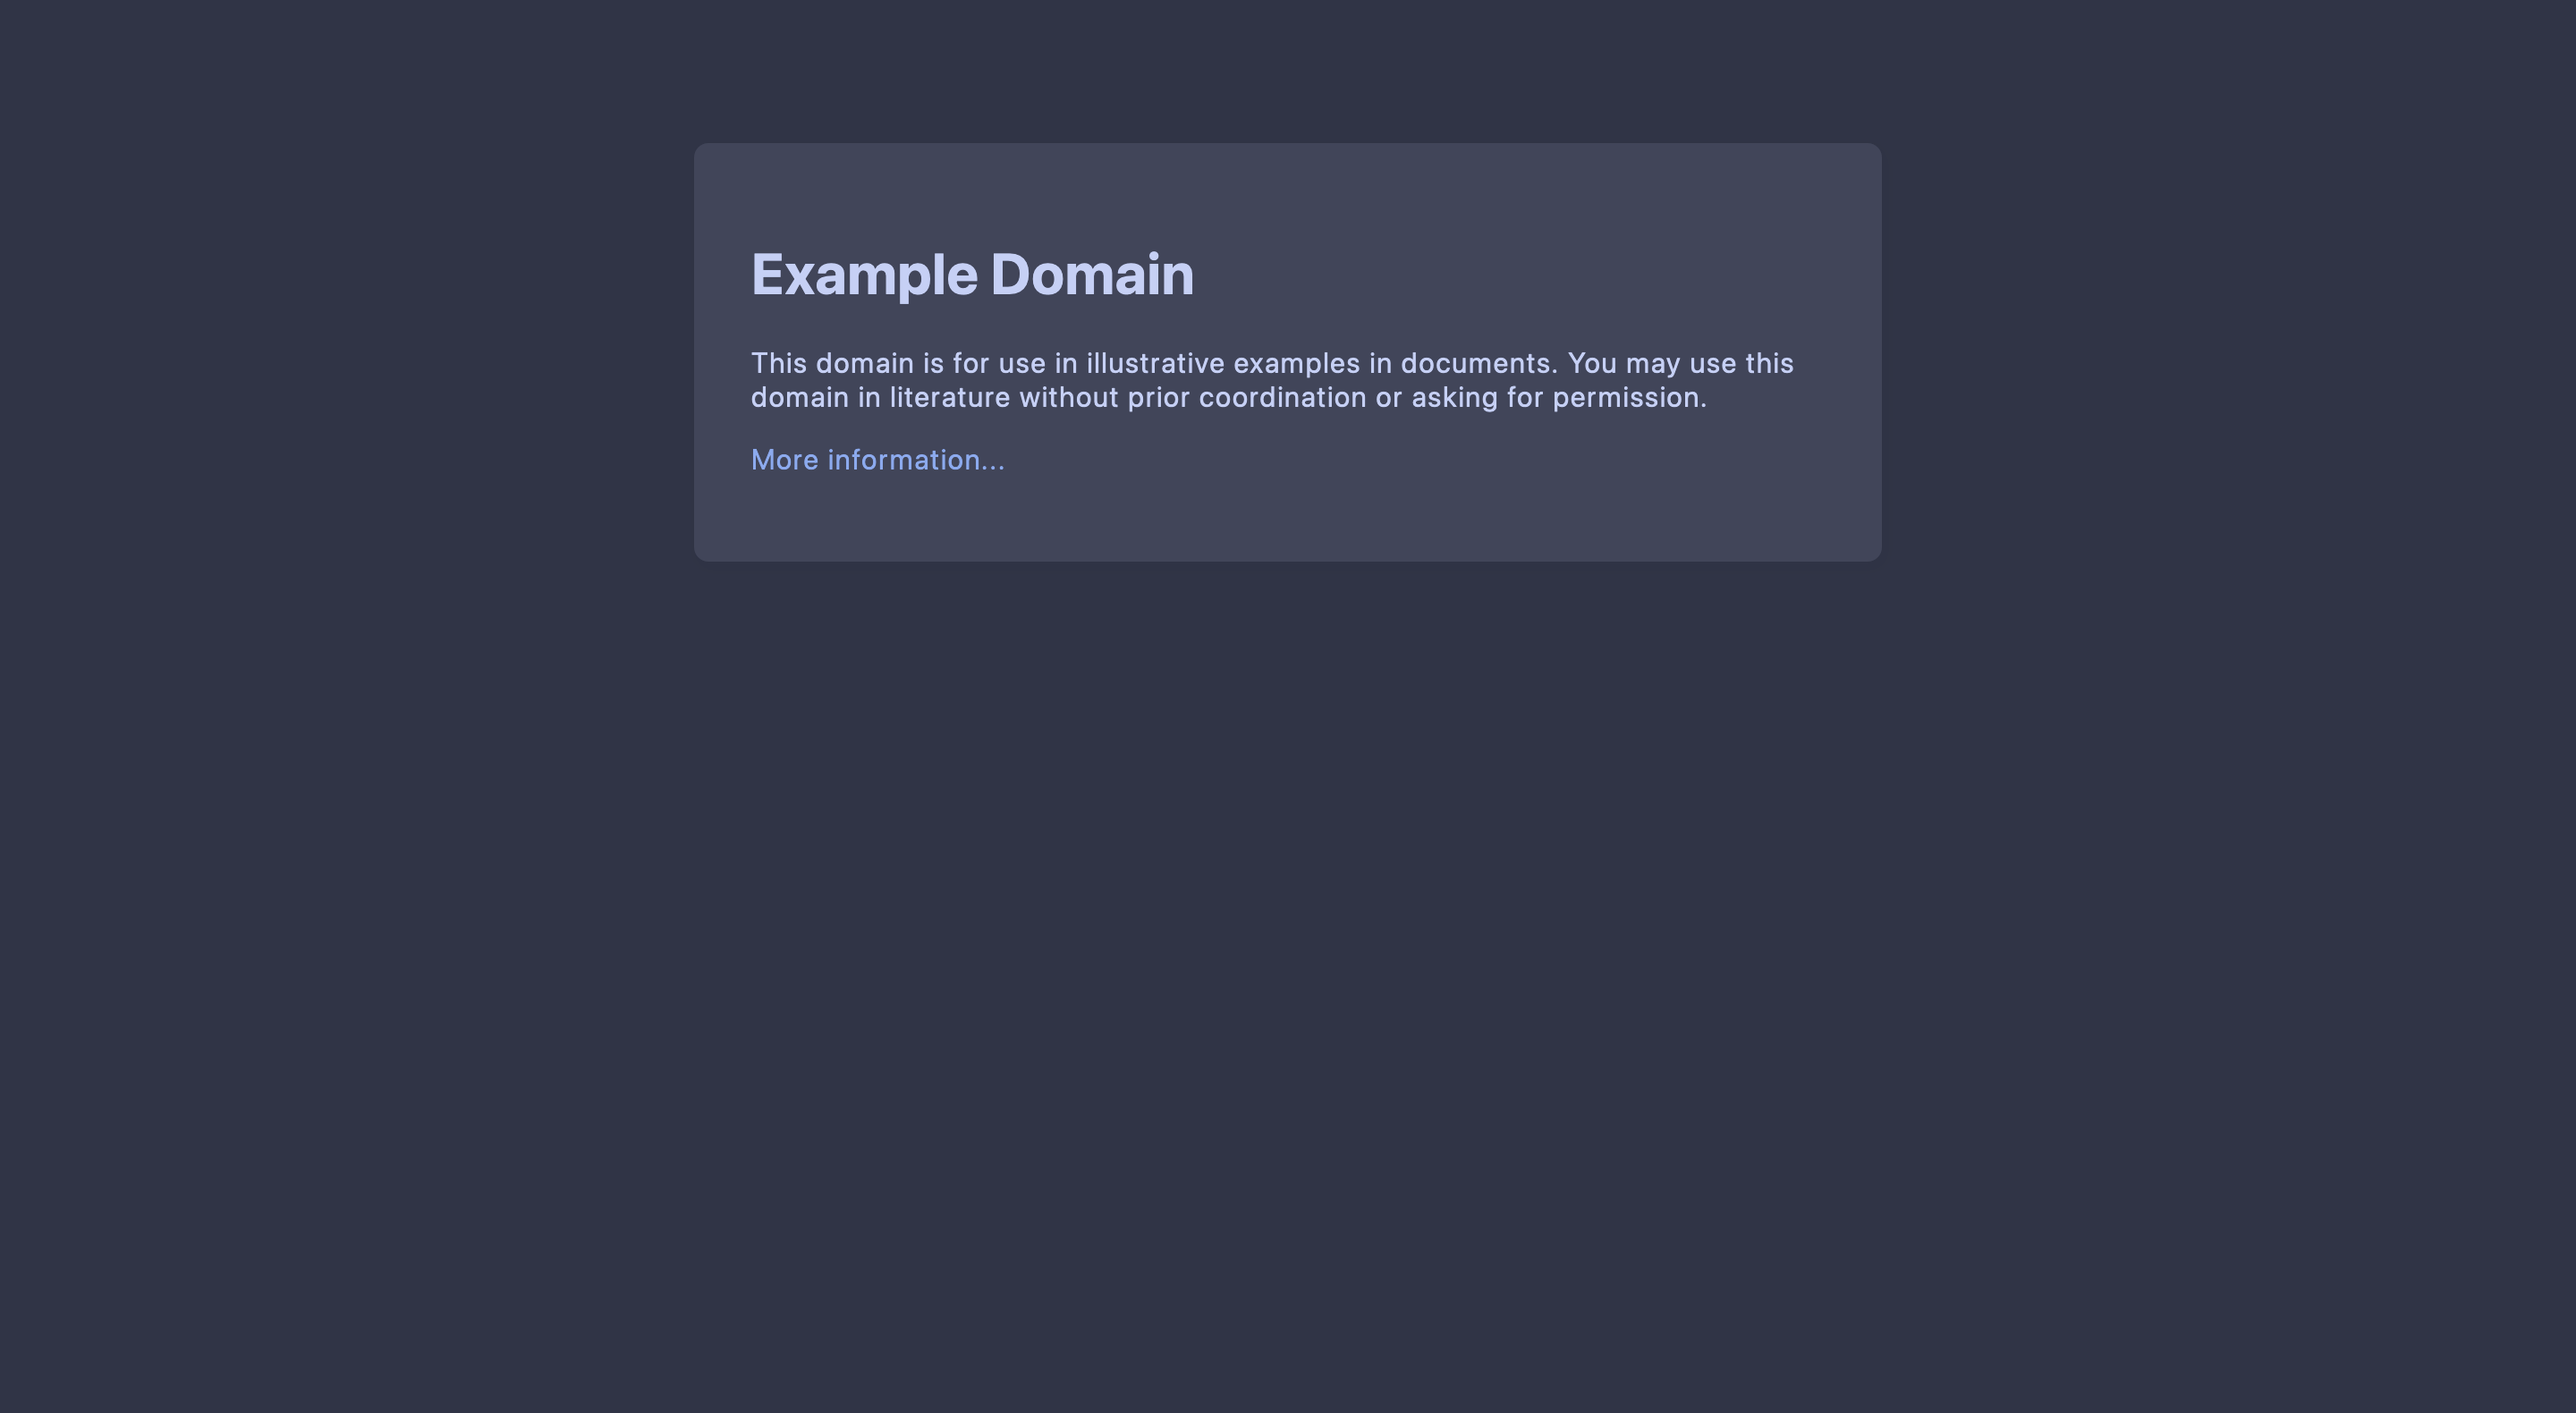
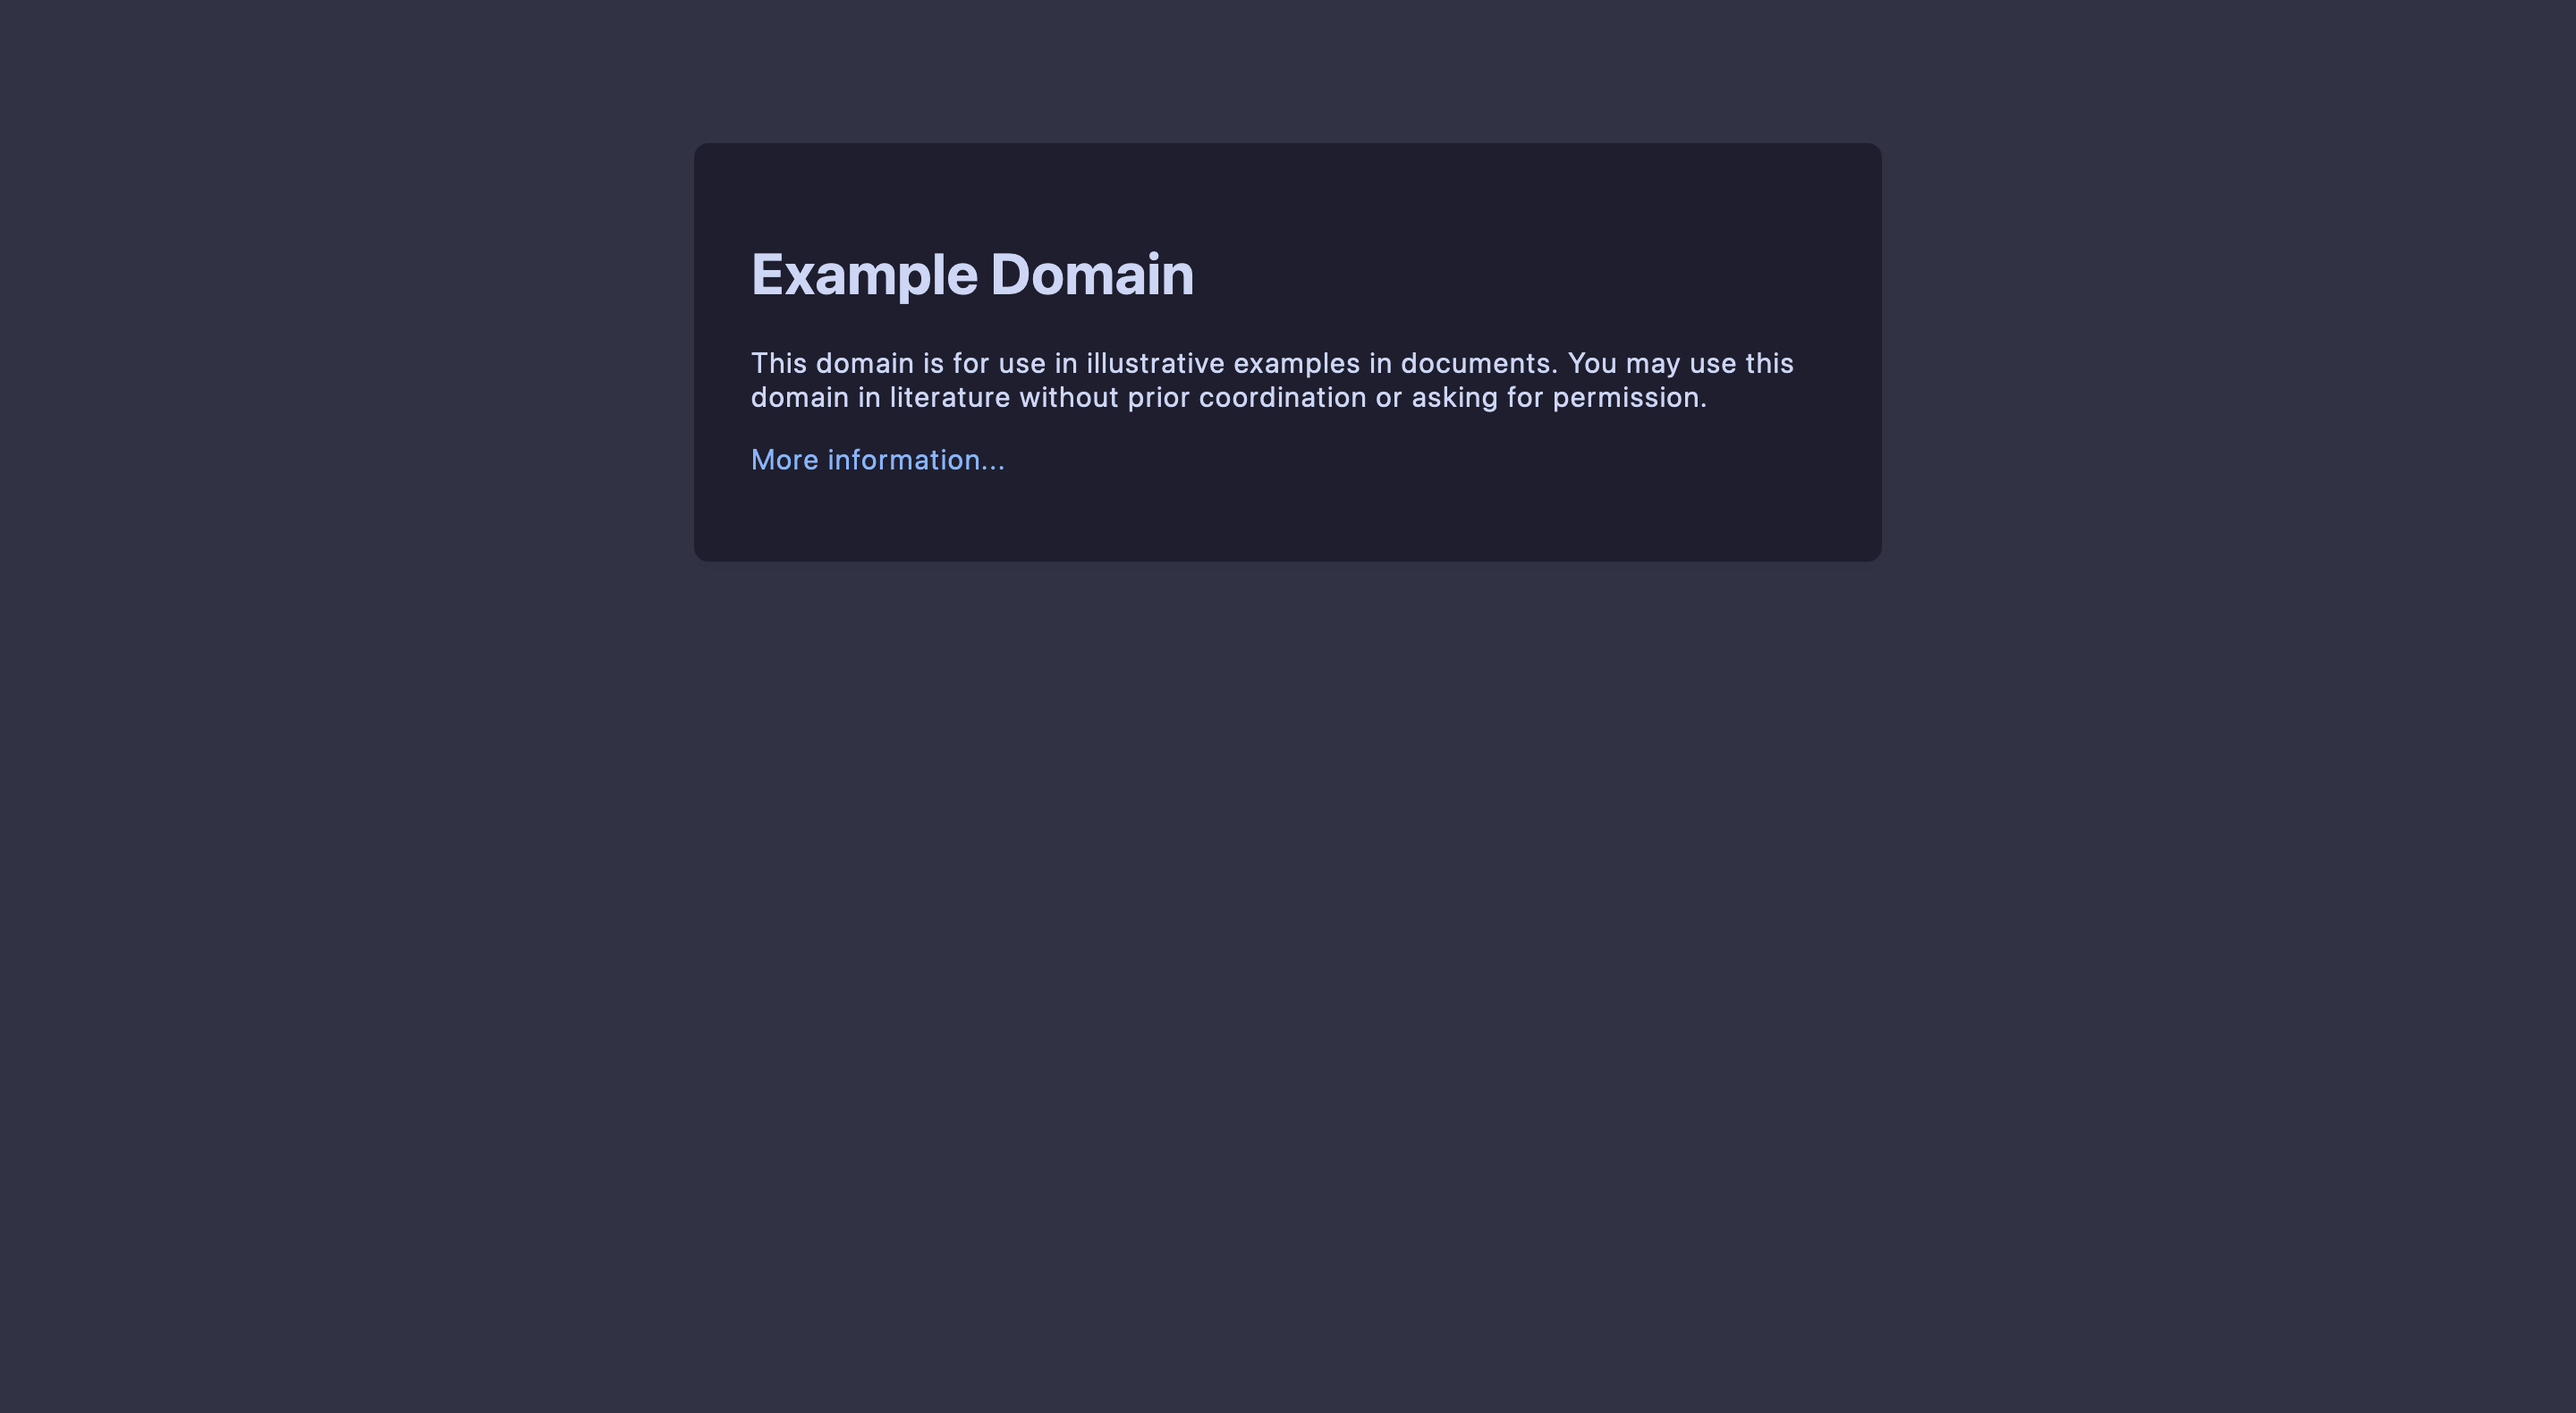
docs: improve wording, fix example.org styles

Changed region(s): [[0.25, 0.093, 0.75, 0.4032]]

diff --git a/docs/how-to-write-a-userstyle.md b/docs/how-to-write-a-userstyle.md
@@ -45,13 +45,14 @@ The rest of the metadata block details the preprocessor and the options of the u
 
 #### `@-moz-document`
 
-Next, we'll want to tell Stylus to apply this userstyle on our website. Just replace `<domain of your website>` with... you guess it! The domain of your website. For our `example.org` example, it looks like this:
+Next, we'll want to tell Stylus to apply this userstyle on our specific website. Just replace `<domain of your website>` with... you guess it! The domain of your website. For our `example.org` example, it looks like this:
 
 ```css
 @-moz-document domain('example.org') {
 ```
 
-While `domain('<domain>')` works for most cases, you may need to use [`regexp('<your regex>')`](https://github.com/openstyles/stylus/wiki/Writing-styles#regexp).
+> [!NOTE]
+> While `domain('<domain>')` works for most cases, you may need to use [`regexp('<your regex>')`](https://github.com/openstyles/stylus/wiki/Writing-styles#regexp).
 
 #### The lookup table
 
@@ -69,7 +70,7 @@ The next section of the template — we'll refer to it as the "lookup table — 
 
 ### The `#catppuccin` mixin
 
-We'll refer to this next section of the template as the "`#catppuccin` mixin". You can ignore the first half of this section with all of the `@<color>: @catppuccin[@@lookup][@<color>];` lines and skip right to the comment where it says `// Start styling your website here:`. As the comment suggests, you can start adding your styles here. For `example.org`, this looks like this:
+We'll refer to this next section of the template as the "`#catppuccin` mixin". You can ignore the first half of this section with all of the `@<color>: @catppuccin[@@lookup][@<color>];` lines and skip right to the comment where it says `// Start styling your website here:`. As the comment suggests, you can start adding your styles here. For `example.org`, I added a few basic declarations for colors and background colors:
 
 <!-- prettier-ignore -->
 ```css
@@ -79,11 +80,11 @@ We'll refer to this next section of the template as the "`#catppuccin` mixin". Y
     @accent-color: @catppuccin[@@lookup][@@accent];
 
     body {
-      background-color: @base;
+      background-color: @surface0;
 
       & > div {
         color: @text;
-        background-color: @surface0;
+        background-color: @base;
       }
     }
 
@@ -96,7 +97,7 @@ We'll refer to this next section of the template as the "`#catppuccin` mixin". Y
 
 #### Applying the theme
 
-The final section of the template is about applying the user's light/dark flavors. Read the comments thoroughly and decide which of the two options works best for your site. In our example case for `example.org`, there isn't a light/dark mode toggle, so we'll just apply it based on the user's preferences.
+The final section of the template is about applying the user's light/dark flavors. Read the comments thoroughly and decide which of the two options works best for your site. In our case, `example.org` doesn't have a light/dark mode toggle, so we'll just apply it based on the user's preferences.
 
 <!-- prettier-ignore -->
 ```css
@@ -172,11 +173,11 @@ If we combine all of the previous steps, we have a working userstyle!
     @accent-color: @catppuccin[@@lookup][@@accent];
 
     body {
-      background-color: @base;
+      background-color: @surface0;
 
       & > div {
         color: @text;
-        background-color: @surface0;
+        background-color: @base;
       }
     }
 
